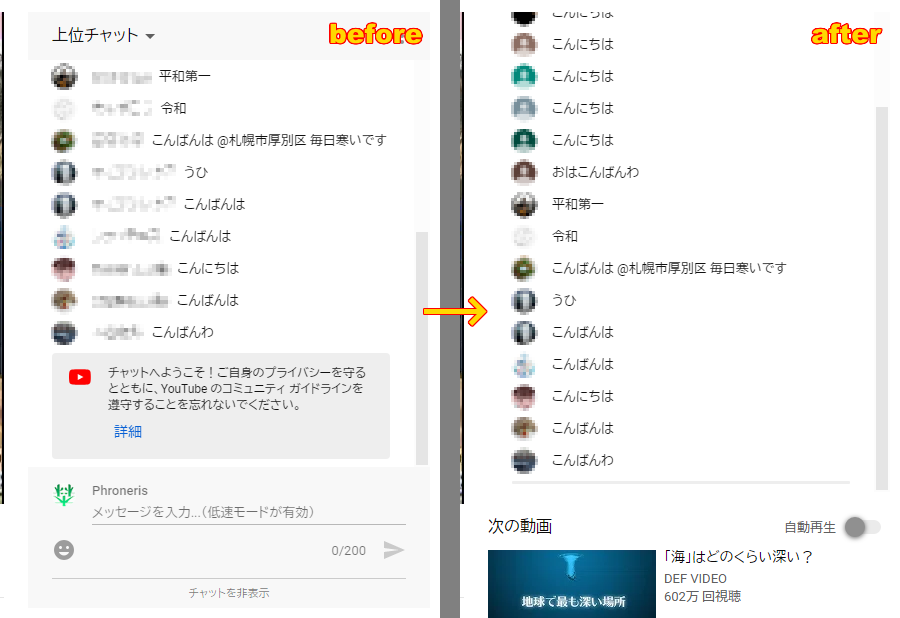
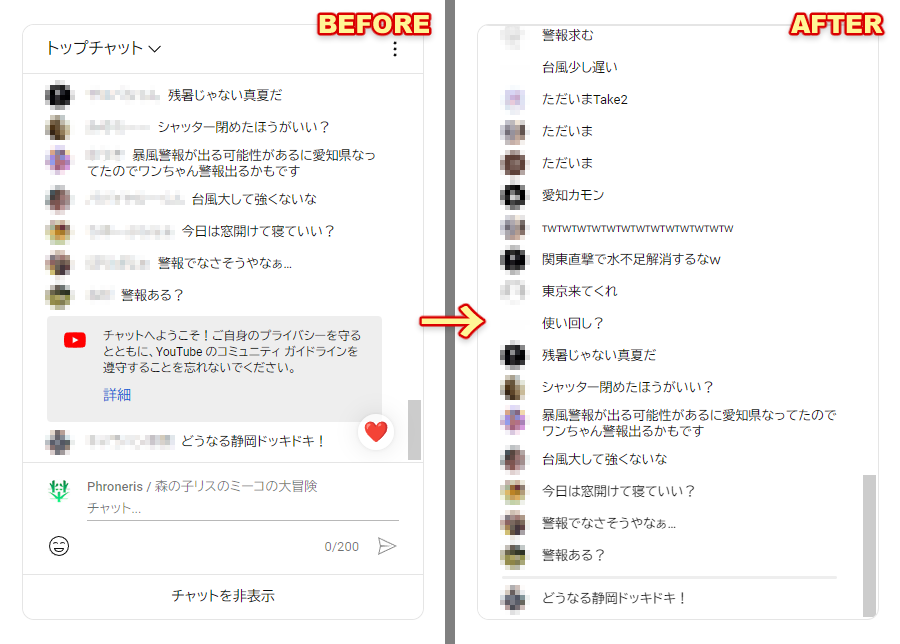
YTLiveコメ一覧 v1.2.0
* "リアクションを隠す" を追加
* "アクションパネル（アンケートとか）" を追加
* "「チャットへようこそ！」を隠す" がアンケート結果とかのようこそでないメッセージも隠していたのを修正
  * `:has()` 対応ブラウザーのみ
* 非表示の `!important` 地獄を解消

diff --git a/README.md b/README.md
@@ -7,7 +7,7 @@ Stylus用UserCSS（森）
 
 | YouTubeLiveコメント一覧カスタム | YouTubeサムネ時間どかし |
 |:-------------------------------:|:-----------------------:|
-| <img src="readme-image/sample_YTbLv-CmntLst.png" alt="『YouTubeLiveコメント一覧カスタム』v1.1.0のスクリーンショット" title="YouTubeLiveコメント一覧カスタム（v1.1.0）"> | <img src="readme-image/sample_YTb-ThmbTm.png" alt="『YouTubeサムネ時間どかし』v1.0.0のスクリーンショット" title="YouTubeサムネ時間どかし（v1.0.0）"> |
+| <img src="readme-image/sample_YTbLv-CmntLst.png" alt="『YouTubeLiveコメント一覧カスタム』v1.2.0のスクリーンショット" title="YouTubeLiveコメント一覧カスタム - v1.2.0"> | <img src="readme-image/sample_YTb-ThmbTm.png" alt="『YouTubeサムネ時間どかし』v1.0.0のスクリーンショット" title="YouTubeサムネ時間どかし（v1.0.0）"> |
 
 𝓐𝓷𝓭 𝓜𝓸𝓻𝓮...
 
